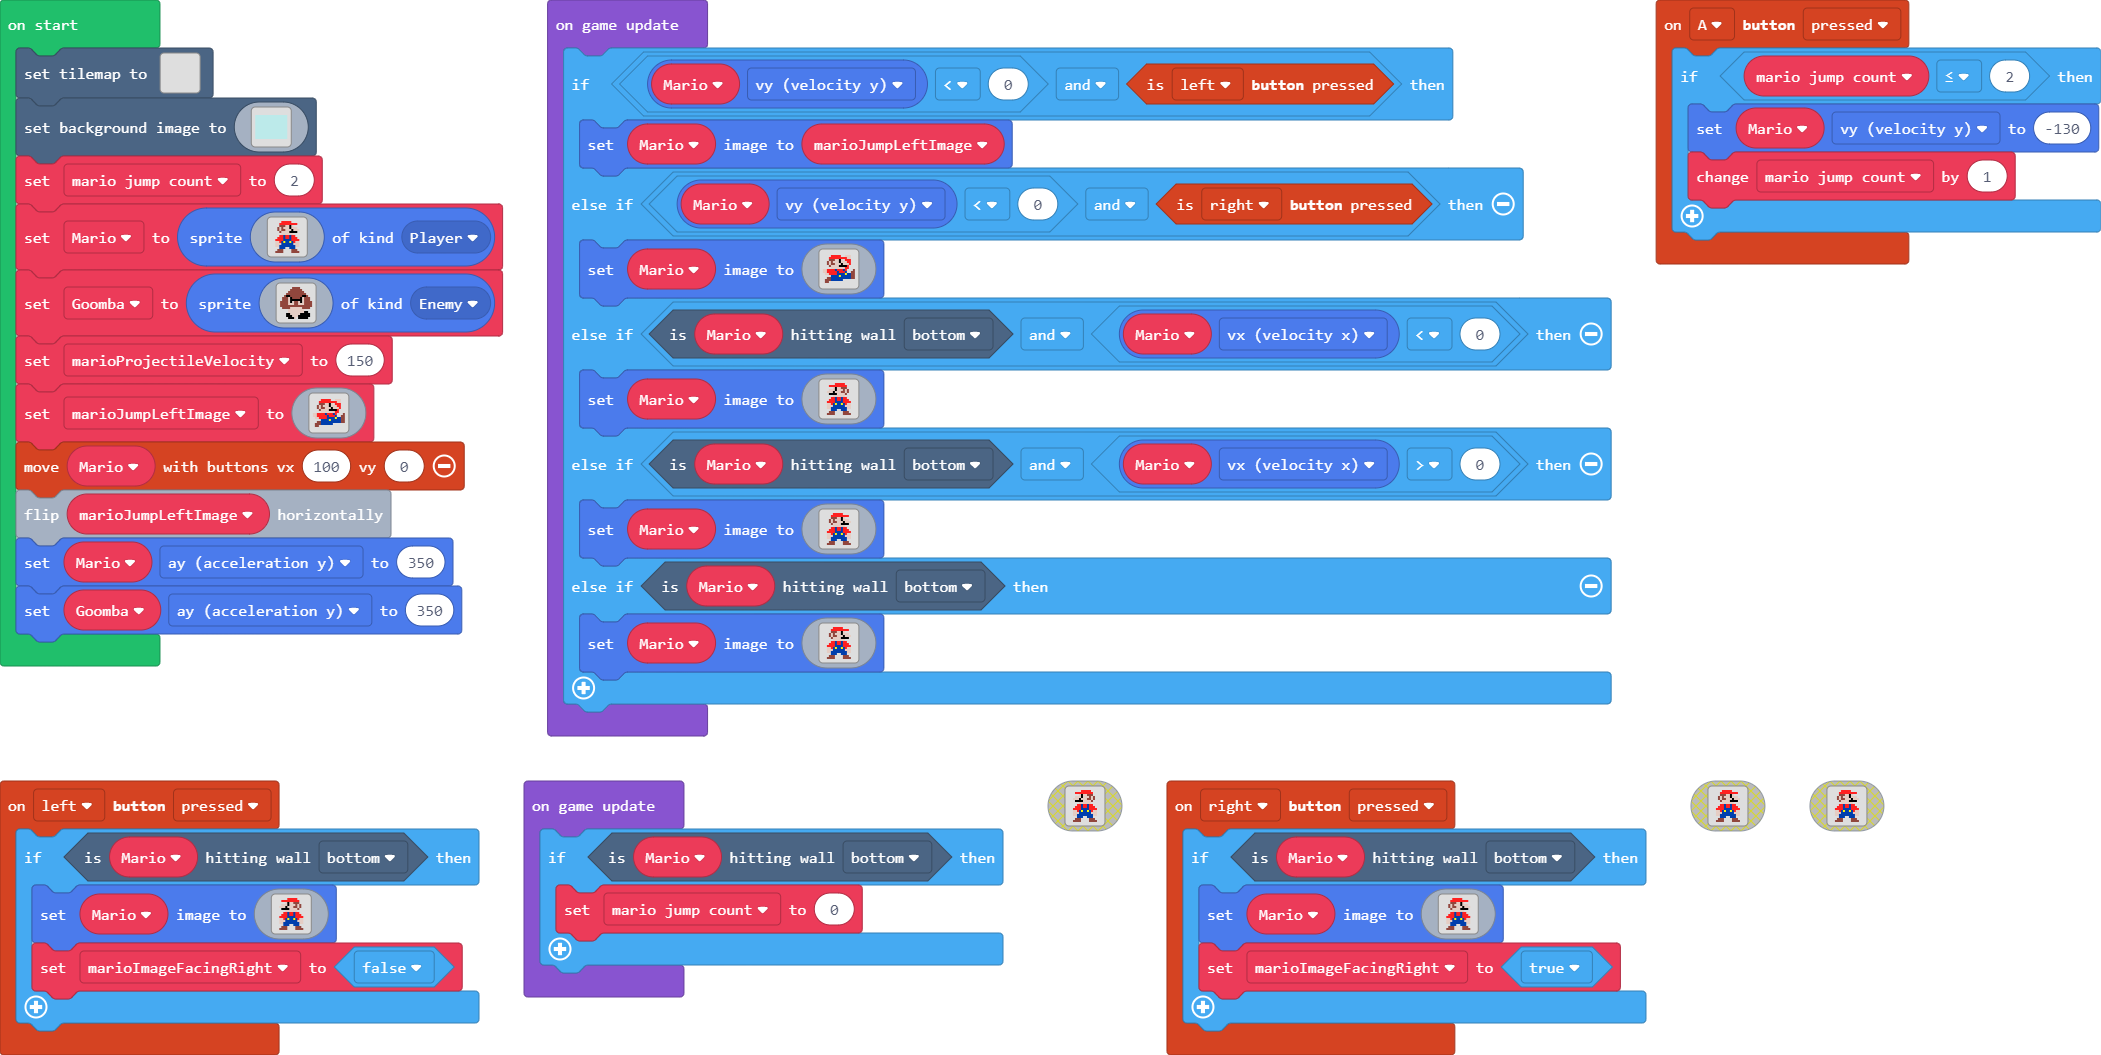
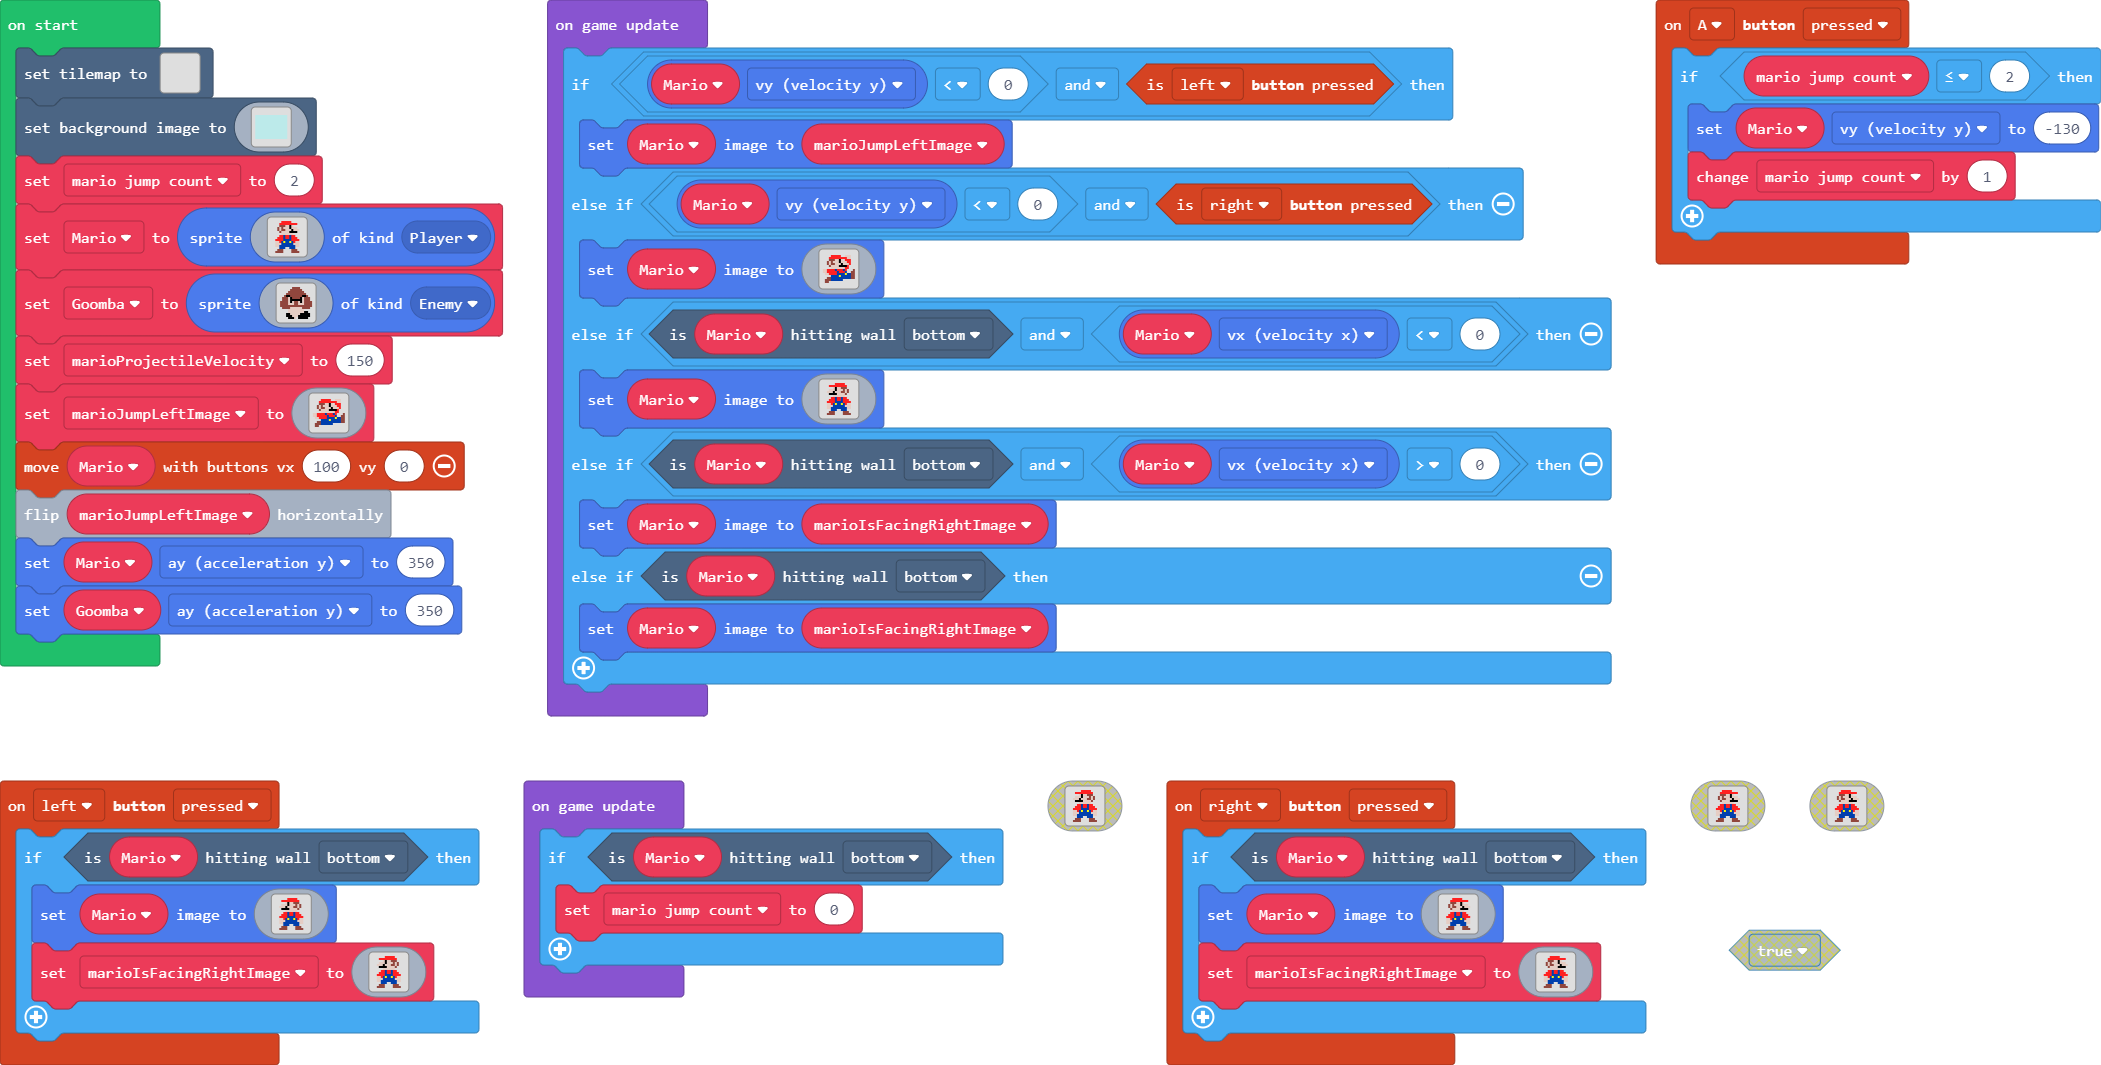
Update main.blocks, main.ts

diff --git a/main.ts b/main.ts
@@ -39,7 +39,24 @@ d d 8 8 8 8 8 8 8 8 d d
 . e e e . . . . e e e . 
 e e e e . . . . e e e e 
 `)
-        marioImageFacingRight = false
+        marioIsFacingRightImage = img`
+. . . . 2 2 2 2 2 . . . 
+. 2 2 2 2 2 2 2 2 2 . . 
+. . . d f d d e e e . . 
+. d d d f d d d e d e . 
+d d d f d d d e e d e . 
+. f f f f d d d d e . . 
+. . . d d d d d d . . . 
+. . 2 2 8 2 2 8 2 2 . . 
+. 2 2 2 8 2 2 8 2 2 2 . 
+2 2 2 2 8 8 8 8 2 2 2 2 
+d d 2 8 5 8 8 5 8 2 d d 
+d d d 8 8 8 8 8 8 d d d 
+d d 8 8 8 8 8 8 8 8 d d 
+. . 8 8 8 . . 8 8 8 . . 
+. e e e . . . . e e e . 
+e e e e . . . . e e e e 
+`
     }
 })
 controller.A.onEvent(ControllerButtonEvent.Pressed, function () {
@@ -68,10 +85,27 @@ d d 8 8 8 8 8 8 8 8 d d
 . e e e . . . . e e e . 
 e e e e . . . . e e e e 
 `)
-        marioImageFacingRight = true
+        marioIsFacingRightImage = img`
+. . . 2 2 2 2 2 . . . . 
+. . 2 2 2 2 2 2 2 2 2 . 
+. . e e e d d f d . . . 
+. e d e d d d f d d d . 
+. e d e e d d d f d d d 
+. . e d d d d f f f f . 
+. . . d d d d d d . . . 
+. . 2 2 8 2 2 8 2 2 . . 
+. 2 2 2 8 2 2 8 2 2 2 . 
+2 2 2 2 8 8 8 8 2 2 2 2 
+d d 2 8 5 8 8 5 8 2 d d 
+d d d 8 8 8 8 8 8 d d d 
+d d 8 8 8 8 8 8 8 8 d d 
+. . 8 8 8 . . 8 8 8 . . 
+. e e e . . . . e e e . 
+e e e e . . . . e e e e 
+`
     }
 })
-let marioImageFacingRight = false
+let marioIsFacingRightImage: Image = null
 let Mario: Sprite = null
 let mario_jump_count = 0
 tiles.setTilemap(tiles.createTilemap(
@@ -309,43 +343,9 @@ d d 8 8 8 8 8 8 8 8 d d
 e e e e . . . . e e e e 
 `)
     } else if (Mario.isHittingTile(CollisionDirection.Bottom) && Mario.vx > 0) {
-        Mario.setImage(img`
-. . . 2 2 2 2 2 . . . . 
-. . 2 2 2 2 2 2 2 2 2 . 
-. . e e e d d f d . . . 
-. e d e d d d f d d d . 
-. e d e e d d d f d d d 
-. . e d d d d f f f f . 
-. . . d d d d d d . . . 
-. . 2 2 8 2 2 8 2 2 . . 
-. 2 2 2 8 2 2 8 2 2 2 . 
-2 2 2 2 8 8 8 8 2 2 2 2 
-d d 2 8 5 8 8 5 8 2 d d 
-d d d 8 8 8 8 8 8 d d d 
-d d 8 8 8 8 8 8 8 8 d d 
-. . 8 8 8 . . 8 8 8 . . 
-. e e e . . . . e e e . 
-e e e e . . . . e e e e 
-`)
+        Mario.setImage(marioIsFacingRightImage)
     } else if (Mario.isHittingTile(CollisionDirection.Bottom)) {
-        Mario.setImage(img`
-. . . 2 2 2 2 2 . . . . 
-. . 2 2 2 2 2 2 2 2 2 . 
-. . e e e d d f d . . . 
-. e d e d d d f d d d . 
-. e d e e d d d f d d d 
-. . e d d d d f f f f . 
-. . . d d d d d d . . . 
-. . 2 2 8 2 2 8 2 2 . . 
-. 2 2 2 8 2 2 8 2 2 2 . 
-2 2 2 2 8 8 8 8 2 2 2 2 
-d d 2 8 5 8 8 5 8 2 d d 
-d d d 8 8 8 8 8 8 d d d 
-d d 8 8 8 8 8 8 8 8 d d 
-. . 8 8 8 . . 8 8 8 . . 
-. e e e . . . . e e e . 
-e e e e . . . . e e e e 
-`)
+        Mario.setImage(marioIsFacingRightImage)
     }
 })
 game.onUpdate(function () {
